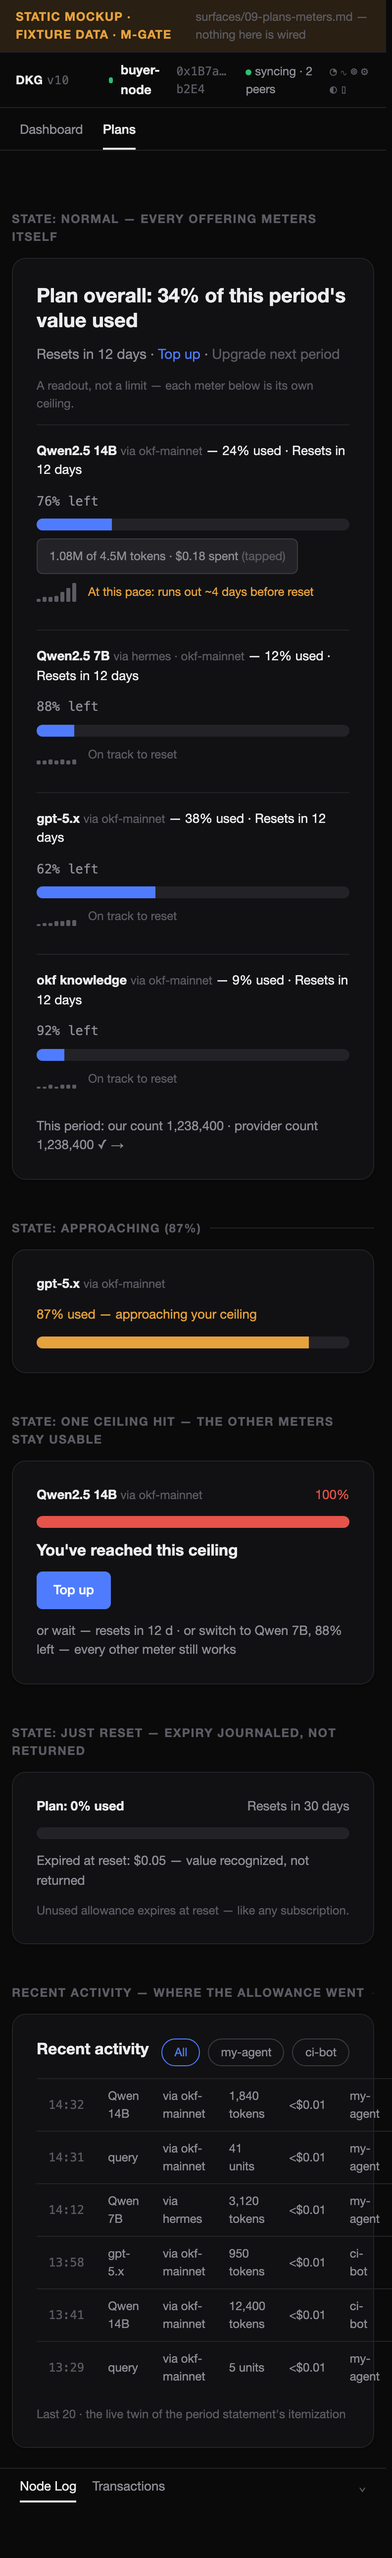
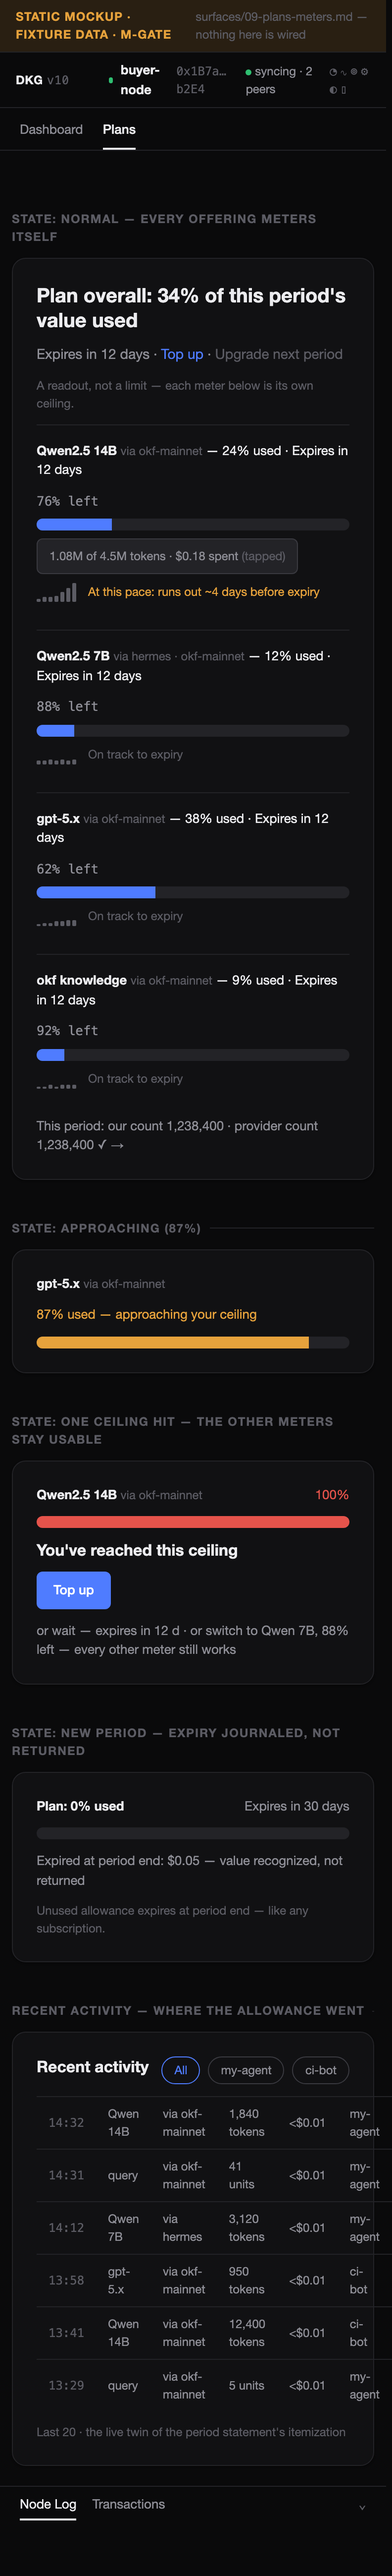
P5: "Resets in…" → "Expires in…" wording sitewide (+ stale shared labels off Operate)
Claude-Session: https://claude.ai/code/session_01JiTT3xcuesA55AyqxVU4c1

diff --git a/docs/ui-spec/mockups/p5/05-plans-meters.html b/docs/ui-spec/mockups/p5/05-plans-meters.html
@@ -49,28 +49,28 @@
 
     <div class="state-label">state: normal — every offering meters itself</div>
   <div class="card card--pad stack">
-    <div class="planhead"><h1 style="font-size:var(--fs-xl)">Plan overall: 34% of this period's value used</h1><span class="sec">Resets in 12 days · <a href="01-subscribe-onboarding.html#consent">Top up</a> · <a href="02-plan-composer.html" class="muted">Upgrade next period</a></span></div>
+    <div class="planhead"><h1 style="font-size:var(--fs-xl)">Plan overall: 34% of this period's value used</h1><span class="sec">Expires in 12 days · <a href="01-subscribe-onboarding.html#consent">Top up</a> · <a href="02-plan-composer.html" class="muted">Upgrade next period</a></span></div>
     <p class="muted xs">A readout, not a limit — each meter below is its own ceiling.</p>
     <div class="mrow">
-      <div class="mhead"><span><strong>Qwen2.5 14B</strong> <span class="muted xs">via okf-mainnet</span> — 24% used · Resets in 12 days</span><span class="mono sec">76% left</span></div>
+      <div class="mhead"><span><strong>Qwen2.5 14B</strong> <span class="muted xs">via okf-mainnet</span> — 24% used · Expires in 12 days</span><span class="mono sec">76% left</span></div>
       <div class="bar plain"><i style="width:24%"></i></div>
       <div class="pop">1.08M of 4.5M tokens · $0.18 spent <span class="muted">(tapped)</span></div>
-      <div class="sparkrow"><span class="spark"><i style="height:16%"></i><i style="height:24%"></i><i style="height:24%"></i><i style="height:32%"></i><i style="height:48%"></i><i style="height:72%"></i><i style="height:96%"></i></span><span class="pace warn">At this pace: runs out ~4 days before reset</span></div>
+      <div class="sparkrow"><span class="spark"><i style="height:16%"></i><i style="height:24%"></i><i style="height:24%"></i><i style="height:32%"></i><i style="height:48%"></i><i style="height:72%"></i><i style="height:96%"></i></span><span class="pace warn">At this pace: runs out ~4 days before expiry</span></div>
     </div>
     <div class="mrow">
-      <div class="mhead"><span><strong>Qwen2.5 7B</strong> <span class="muted xs">via hermes · okf-mainnet</span> — 12% used · Resets in 12 days</span><span class="mono sec">88% left</span></div>
+      <div class="mhead"><span><strong>Qwen2.5 7B</strong> <span class="muted xs">via hermes · okf-mainnet</span> — 12% used · Expires in 12 days</span><span class="mono sec">88% left</span></div>
       <div class="bar plain"><i style="width:12%"></i></div>
-      <div class="sparkrow"><span class="spark"><i style="height:16%"></i><i style="height:16%"></i><i style="height:24%"></i><i style="height:16%"></i><i style="height:24%"></i><i style="height:16%"></i><i style="height:24%"></i></span><span class="pace quiet">On track to reset</span></div>
+      <div class="sparkrow"><span class="spark"><i style="height:16%"></i><i style="height:16%"></i><i style="height:24%"></i><i style="height:16%"></i><i style="height:24%"></i><i style="height:16%"></i><i style="height:24%"></i></span><span class="pace quiet">On track to expiry</span></div>
     </div>
     <div class="mrow">
-      <div class="mhead"><span><strong>gpt-5.x</strong> <span class="muted xs">via okf-mainnet</span> — 38% used · Resets in 12 days</span><span class="mono sec">62% left</span></div>
+      <div class="mhead"><span><strong>gpt-5.x</strong> <span class="muted xs">via okf-mainnet</span> — 38% used · Expires in 12 days</span><span class="mono sec">62% left</span></div>
       <div class="bar plain"><i style="width:38%"></i></div>
-      <div class="sparkrow"><span class="spark"><i style="height:8%"></i><i style="height:16%"></i><i style="height:16%"></i><i style="height:24%"></i><i style="height:24%"></i><i style="height:32%"></i><i style="height:32%"></i></span><span class="pace quiet">On track to reset</span></div>
+      <div class="sparkrow"><span class="spark"><i style="height:8%"></i><i style="height:16%"></i><i style="height:16%"></i><i style="height:24%"></i><i style="height:24%"></i><i style="height:32%"></i><i style="height:32%"></i></span><span class="pace quiet">On track to expiry</span></div>
     </div>
     <div class="mrow">
-      <div class="mhead"><span><strong>okf knowledge</strong> <span class="muted xs">via okf-mainnet</span> — 9% used · Resets in 12 days</span><span class="mono sec">92% left</span></div>
+      <div class="mhead"><span><strong>okf knowledge</strong> <span class="muted xs">via okf-mainnet</span> — 9% used · Expires in 12 days</span><span class="mono sec">92% left</span></div>
       <div class="bar plain"><i style="width:9%"></i></div>
-      <div class="sparkrow"><span class="spark"><i style="height:8%"></i><i style="height:8%"></i><i style="height:16%"></i><i style="height:8%"></i><i style="height:16%"></i><i style="height:16%"></i><i style="height:16%"></i></span><span class="pace quiet">On track to reset</span></div>
+      <div class="sparkrow"><span class="spark"><i style="height:8%"></i><i style="height:8%"></i><i style="height:16%"></i><i style="height:8%"></i><i style="height:16%"></i><i style="height:16%"></i><i style="height:16%"></i></span><span class="pace quiet">On track to expiry</span></div>
     </div>
     <a class="sec sm" style="display:block" href="06-statement.html">This period: our count 1,238,400 · provider count 1,238,400 ✓ →</a>
   </div>
@@ -86,15 +86,15 @@
     <div class="mhead"><span><strong>Qwen2.5 14B</strong> <span class="muted xs">via okf-mainnet</span></span><span style="color:var(--gauge-over)">100%</span></div>
     <div class="bar hit"><i style="width:100%"></i></div>
     <h2>You've reached this ceiling</h2>
-    <div class="fork"><a class="btn btn--primary" href="01-subscribe-onboarding.html#consent">Top up</a><span class="sec sm">or wait — resets in 12 d · or switch to Qwen 7B, 88% left — every other meter still works</span></div>
+    <div class="fork"><a class="btn btn--primary" href="01-subscribe-onboarding.html#consent">Top up</a><span class="sec sm">or wait — expires in 12 d · or switch to Qwen 7B, 88% left — every other meter still works</span></div>
   </div>
 
-  <div class="state-label">state: just reset — expiry journaled, not returned</div>
+  <div class="state-label">state: new period — expiry journaled, not returned</div>
   <div class="card card--pad stack">
-    <div class="mhead"><span><strong>Plan: 0% used</strong></span><span class="sec">Resets in 30 days</span></div>
+    <div class="mhead"><span><strong>Plan: 0% used</strong></span><span class="sec">Expires in 30 days</span></div>
     <div class="bar plain"><i style="width:0%"></i></div>
-    <p class="sec sm">Expired at reset: $0.05 — value recognized, not returned</p>
-    <p class="muted xs">Unused allowance expires at reset — like any subscription.</p>
+    <p class="sec sm">Expired at period end: $0.05 — value recognized, not returned</p>
+    <p class="muted xs">Unused allowance expires at period end — like any subscription.</p>
   </div>
 
   <div class="state-label">recent activity — where the allowance went</div>

diff --git a/docs/ui-spec/mockups/p5/02-plan-composer.html b/docs/ui-spec/mockups/p5/02-plan-composer.html
@@ -67,7 +67,7 @@
     <div class="pay">
       <div class="off-row stack-sm"><span class="sec">This plan pays 2 providers</span><span class="mono">okf-mainnet 2.8 TRAC · hermes 0.8 TRAC</span></div>
       <div class="sec sm">Cheaper routing gives you more, never less. Your node picks the cheapest included provider automatically.</div>
-      <div class="muted xs">Prices are frozen for the period. Changes you make take effect at the next reset.</div>
+      <div class="muted xs">Prices are frozen for the period. Changes you make take effect at the next period.</div>
       <div style="text-align:right"><a class="btn btn--primary" href="#consent2">Review payments →</a></div>
     </div>
   </div>
@@ -80,7 +80,7 @@
       <div style="display:grid; grid-template-columns:1fr auto auto; gap:var(--sp-3)"><span><strong>okf-mainnet</strong> <span class="muted xs">to 0x…okf revenue wallet</span></span><span class="mono">2.8 TRAC</span><span class="sec">~$0.78</span></div>
       <div style="display:grid; grid-template-columns:1fr auto auto; gap:var(--sp-3)"><span><strong>hermes</strong> <span class="muted xs">to 0x…hermes revenue wallet</span></span><span class="mono">0.8 TRAC</span><span class="sec">~$0.22</span></div>
       <div style="display:grid; grid-template-columns:1fr auto auto; gap:var(--sp-3)" class="sec"><span>2 transfers, sent one after the other</span><span class="mono">3.6 TRAC</span><span>~$1.01</span></div>
-      <div style="color:var(--text-secondary); border-top:1px solid var(--border-subtle); padding-top:var(--sp-3)">Payments are final. Unused allowance expires at reset — like any subscription.</div>
+      <div style="color:var(--text-secondary); border-top:1px solid var(--border-subtle); padding-top:var(--sp-3)">Payments are final. Unused allowance expires at period end — like any subscription.</div>
       <div style="display:flex; justify-content:space-between"><a class="btn" href="#top">Cancel</a><a class="btn btn--primary" href="01-subscribe-onboarding.html#key">Confirm</a></div>
     </div>
     <p class="muted xs">Adding a provider is always this explicit — one row you chose, one payment line you see. Nothing subscribes you to a second seller implicitly.</p>
@@ -88,7 +88,7 @@
 
   <div class="state-label">state: mid-cycle (read-only except top-up)</div>
   <div class="card card--pad stack">
-    <div class="off-row"><span class="sec">Plan active — resets in 12 days</span><a class="btn" href="01-subscribe-onboarding.html#consent">Top up</a></div>
+    <div class="off-row"><span class="sec">Plan active — expires in 12 days</span><a class="btn" href="01-subscribe-onboarding.html#consent">Top up</a></div>
     <p class="muted xs">Allocation edits queue for the next cycle. Prices stay frozen until then.</p>
   </div>
 

diff --git a/docs/ui-spec/mockups/p5/09-operate-v5.html b/docs/ui-spec/mockups/p5/09-operate-v5.html
@@ -40,12 +40,12 @@
       <div class="row"><span>Qwen2.5 14B</span><span class="mono">0.6 µ/tok <span class="muted xs">no change queued</span></span></div>
       <div class="row"><span>Qwen2.5 7B</span><span class="mono">0.35 µ/tok → <input class="input mono" value="0.32" size="4"> µ <span class="muted xs">next cycle</span></span></div>
       <div class="row"><span>okf knowledge</span><span class="mono">15.24 µ/unit</span></div>
-      <p class="muted xs">Current subscribers keep their frozen price to reset.</p>
+      <p class="muted xs">Current subscribers keep their frozen price until their period expires.</p>
     </div>
     <div class="card card--pad stack">
       <h2>2 active subscriptions this period</h2>
-      <div class="row"><span class="mono">0x1B7a44F2…</span><span class="sec">shared · 38% consumed · resets 12 d</span></div>
-      <div class="row"><span class="mono">0x9A21fCe0… (hermes)</span><span class="sec">shared · 71% consumed · resets 12 d</span></div>
+      <div class="row"><span class="mono">0x1B7a44F2…</span><span class="sec">38% consumed · expires 12 d</span></div>
+      <div class="row"><span class="mono">0x9A21fCe0… (hermes)</span><span class="sec">71% consumed · expires 12 d</span></div>
     </div>
     <div class="card card--pad stack">
       <h2>Statements awaiting your signature: 1</h2>

diff --git a/docs/ui-spec/mockups/p5/01-subscribe-onboarding.html b/docs/ui-spec/mockups/p5/01-subscribe-onboarding.html
@@ -58,7 +58,7 @@
     <div class="gate">
       <div class="gline"><span><strong>okf-mainnet</strong> <span class="muted xs">to 0x…okf revenue wallet</span></span><span class="mono">2.8 TRAC</span><span class="sec">~$0.78</span></div>
       <div class="gline sec"><span>1 transfer</span><span class="mono">2.8 TRAC</span><span>~$0.78</span></div>
-      <div class="norefund">Payments are final. Unused allowance expires at reset — like any subscription.</div>
+      <div class="norefund">Payments are final. Unused allowance expires at period end — like any subscription.</div>
       <div style="display:flex; justify-content:space-between"><a class="btn" href="#pick">Cancel</a><a class="btn btn--primary" href="#key">Confirm</a></div>
     </div>
   </div>

diff --git a/docs/ui-spec/mockups/p5/08-playground-p5.html b/docs/ui-spec/mockups/p5/08-playground-p5.html
@@ -75,7 +75,7 @@
         <strong>This model's ceiling is reached mid-conversation. Your words are safe.</strong>
         <div style="display:flex; gap:var(--sp-3); align-items:center; flex-wrap:wrap">
           <a class="btn btn--primary" href="01-subscribe-onboarding.html#consent">Top up</a>
-          <span class="sec sm">or wait — resets in 12 d · or switch to Qwen 7B, 88% left</span>
+          <span class="sec sm">or wait — expires in 12 d · or switch to Qwen 7B, 88% left</span>
         </div>
       </div>
     </div>

diff --git a/docs/ui-spec/UI-COPY.md b/docs/ui-spec/UI-COPY.md
@@ -238,7 +238,7 @@ table remains, relabeled for the dispute drawer.
 | onboard.sub.template | Starter plan — {models} plus {units} query units, {price}/period |
 | onboard.pay.gate | Confirm this period's payment |
 | onboard.pay.line | {amount} TRAC to {seller} — covers {scope} until {resetDate} |
-| onboard.pay.norefund | Payments are final. Unused allowance expires at reset — like any subscription. |
+| onboard.pay.norefund | Payments are final. Unused allowance expires at period end — like any subscription. |
 
 ## Plan composer
 
@@ -247,7 +247,7 @@ table remains, relabeled for the dispute drawer.
 | composer.title | Compose your plan |
 | composer.budget | Period budget |
 | composer.period | Period |
-| composer.period.note | Prices are frozen for the period. Changes you make take effect at the next reset. |
+| composer.period.note | Prices are frozen for the period. Changes you make take effect at the next period. |
 | composer.seller.auto | Provider chosen automatically at your price cap |
 | composer.seller.pinned | Pinned to {seller} |
 | composer.shared | Shared allowance (recommended) |
@@ -274,7 +274,7 @@ table remains, relabeled for the dispute drawer.
 | meter.hit.upgrade | Upgrade next period |
 | meter.hit.topup | Top up now |
 | meter.topup.gate | Confirm top-up: {amount} TRAC to {seller} — extends {scope} this period |
-| meter.expired.journal | Expired at reset: {value} — value recognized, not returned |
+| meter.expired.journal | Expired at period end: {value} — value recognized, not returned |
 | meter.expired.tip | Subscriptions don't refund. What you don't use funds the network you're part of. |
 
 ## Statement line
@@ -357,8 +357,8 @@ unit basis. These words may appear only one reveal deeper (drawers, tooltips).
 | meter.floor.note | At least {floor} tokens at your max price — routed cheaper {n}×, +{extra} extra |
 | meter.legend | Mostly {top} ({pct}%) · {rest} |
 | meter.pace.warn | At this pace: runs out ~{d} days before reset |
-| meter.pace.ok | On track to reset |
-| meter.expired.tip | Unused allowance expires at reset — like any subscription. |
+| meter.pace.ok | On track to expiry |
+| meter.expired.tip | Unused allowance expires at period end — like any subscription. |
 | fork.topup | Top up |
 | fork.line | or wait — resets in {t} · or switch to {alt}, {pct}% left |
 | play.pool | Pool: {pct}% left |
